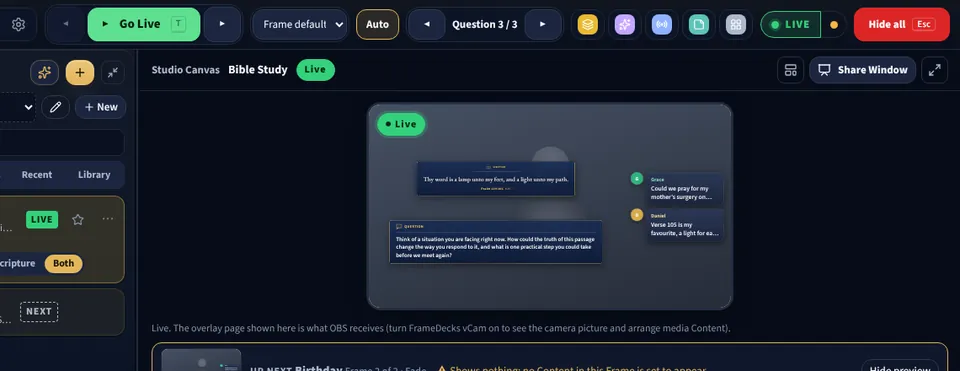
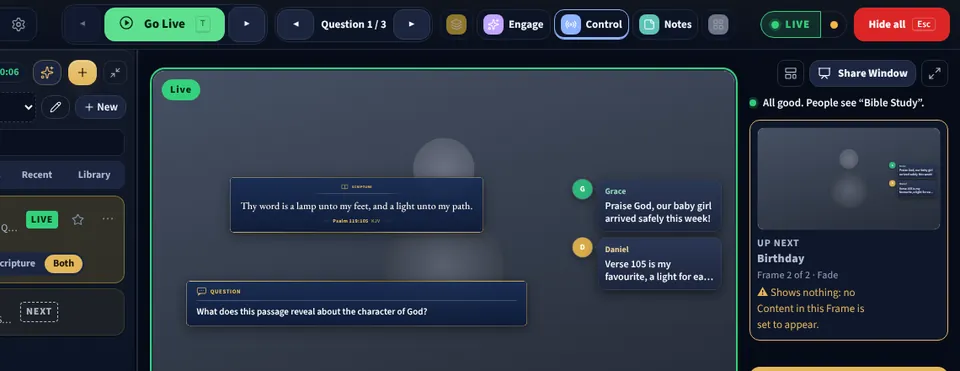
Landing and Help clip: warmer prayer and chat examples

diff --git a/hosted/src/components/landing/tour.tsx b/hosted/src/components/landing/tour.tsx
@@ -247,7 +247,7 @@ const CHAT: readonly Chat[] = [
     who: "Grace",
     ini: "G",
     c: "#b5651d",
-    text: "Could we pray for my mother's surgery on Friday?",
+    text: "Praise God, our baby girl arrived safely this week!",
   },
 ];
 const POP = 0.13; // the suite: one piece after another, this far apart in the chapter
@@ -980,7 +980,7 @@ function Suite() {
       <div className="tr-sat tr-sat-card">
         <span className="tr-sat-tag">Corner card, over Zoom or Teams</span>
         <p className="tr-ac-kick">🙏 Prayer request · 1 waiting</p>
-        <p className="tr-ac-body">“For my mother’s surgery on Friday.”</p>
+        <p className="tr-ac-body">“That our family grows closer to God this year.”</p>
         <p className="tr-ac-acts">
           <b>Show</b>
           <span>Show with “Grace”</span>

diff --git a/tools/make_help_clips.py b/tools/make_help_clips.py
@@ -104,7 +104,7 @@ async def memory_cards(b, base):
     post(base, "/api/memory", {"action": "clear"})
     f = []
     await rec(pg, 0.8, f, STAGE)
-    post(base, "/api/memory", {"action": "add", "text": "Grace: Could we pray for my mother’s surgery on Friday?", "show": True})
+    post(base, "/api/memory", {"action": "add", "text": "Grace: Praise God, our baby girl arrived safely this week!", "show": True})
     await rec(pg, 2.0, f, STAGE)
     post(base, "/api/memory", {"action": "add", "text": "Daniel: Verse 105 is my favourite, a light for each step.", "show": True})
     await rec(pg, 2.2, f, STAGE)
